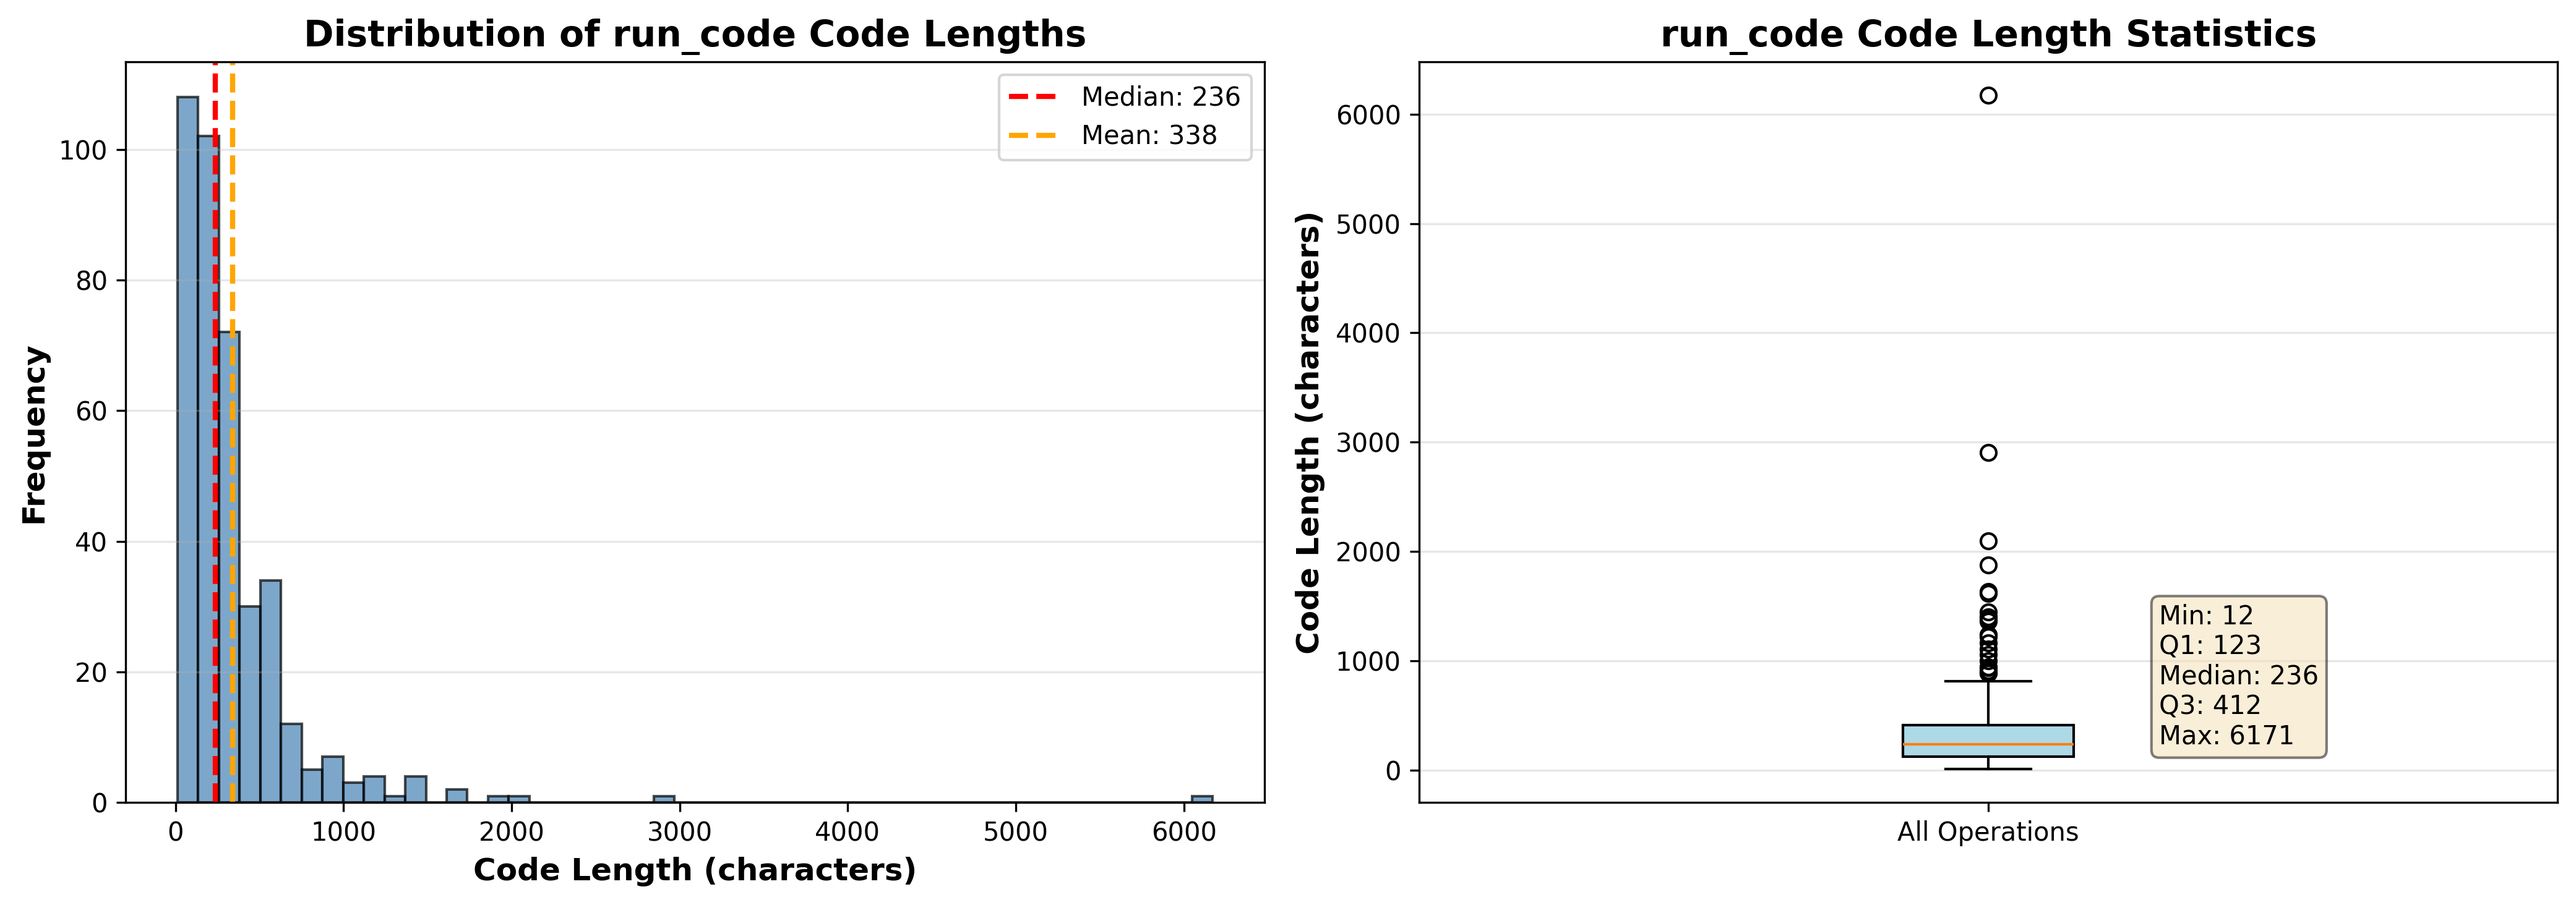
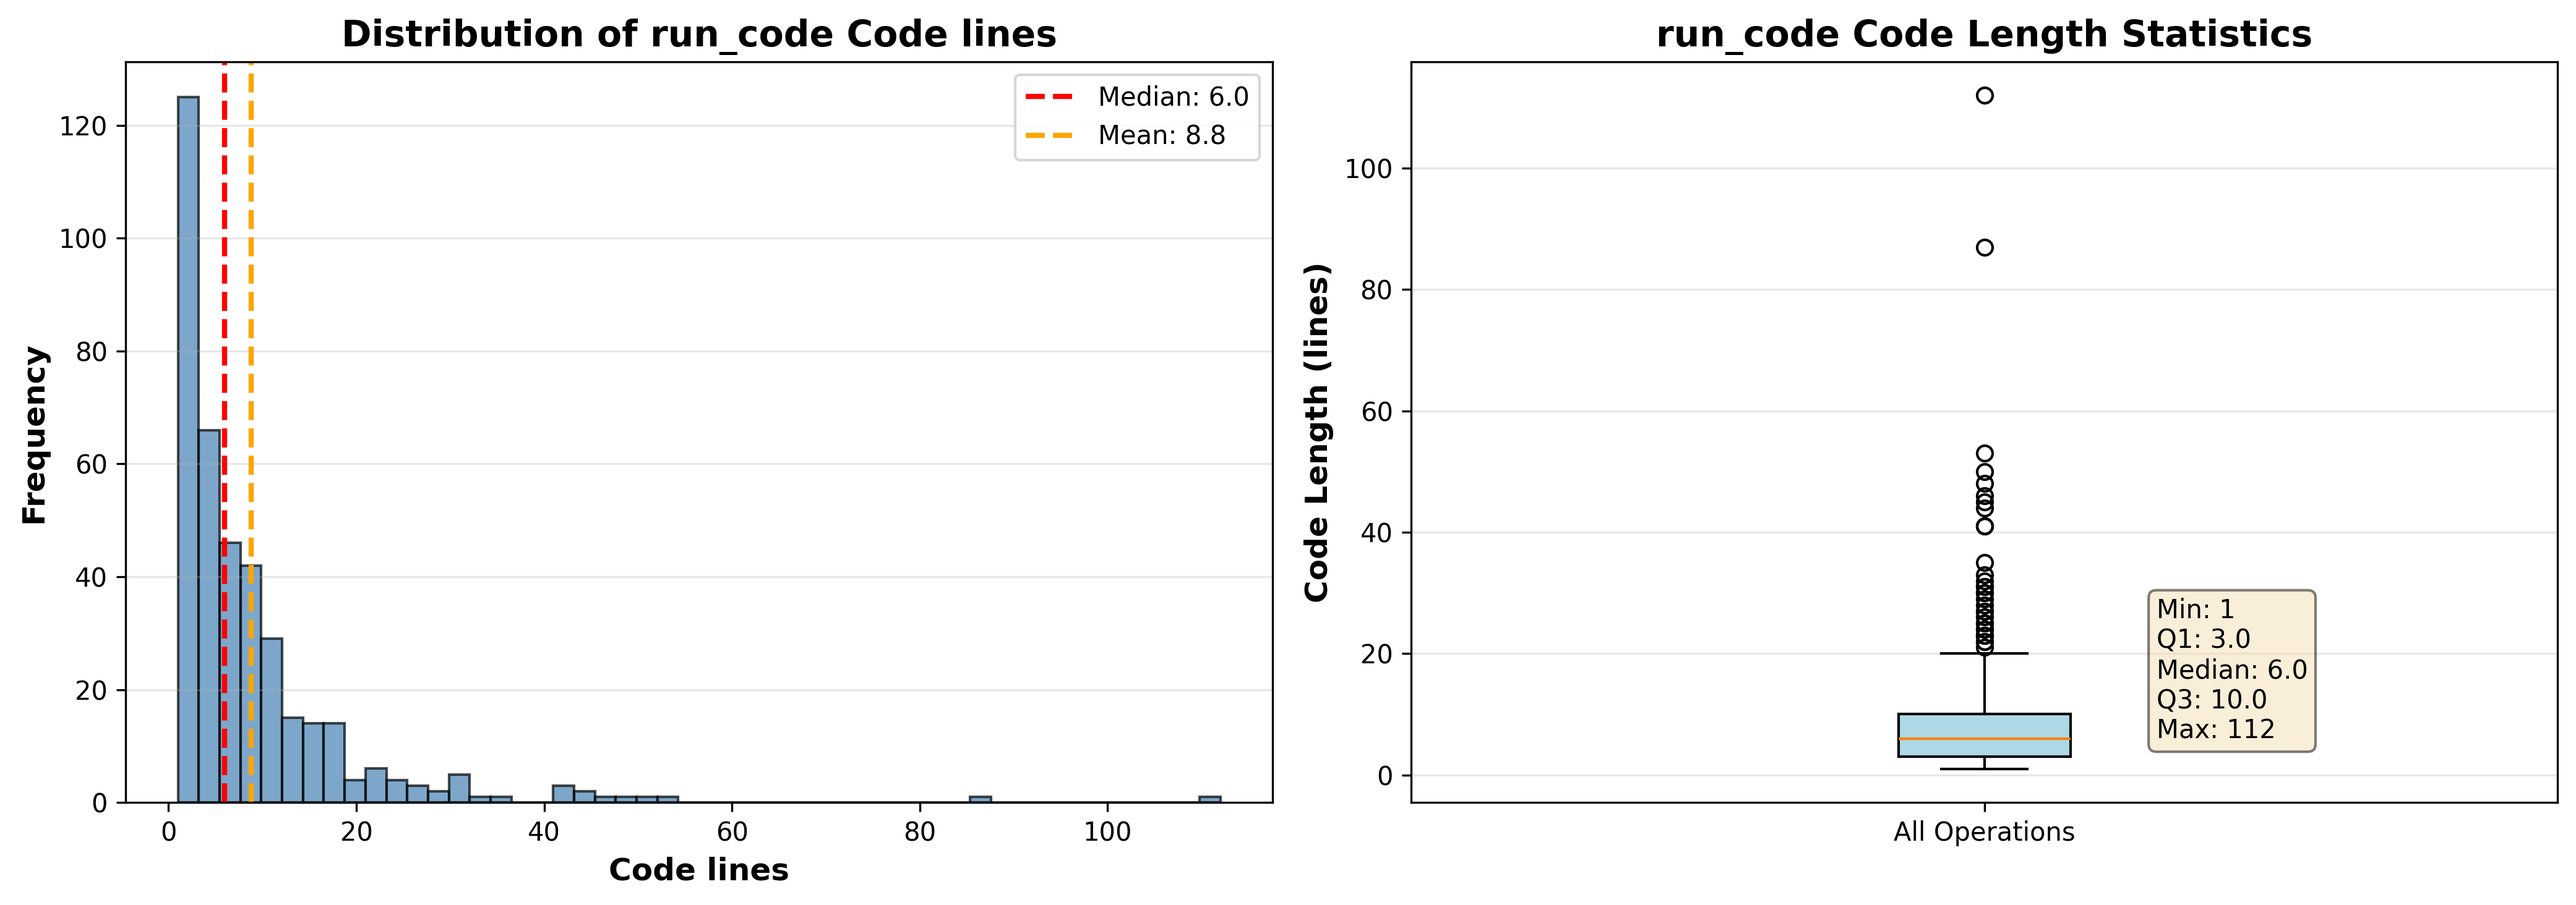
data analysis: change code length to LoC

diff --git a/data_analysis/run_code_visualize.py b/data_analysis/run_code_visualize.py
@@ -140,40 +140,40 @@ def plot_code_length_distribution(input_dir, output_dir):
     
     operations = data['operations']
     
-    # Get code lengths
-    code_lengths = [len(op['code']) for op in operations]
+    # Get code lengths (lines of code)
+    code_loc = [len(op['code'].splitlines()) for op in operations]
     
     # Create figure
     fig, (ax1, ax2) = plt.subplots(1, 2, figsize=(14, 5))
     
     # Plot 1: Histogram
-    ax1.hist(code_lengths, bins=50, color='steelblue', edgecolor='black', alpha=0.7)
-    ax1.axvline(np.median(code_lengths), color='red', linestyle='--', linewidth=2, label=f'Median: {np.median(code_lengths):.0f}')
-    ax1.axvline(np.mean(code_lengths), color='orange', linestyle='--', linewidth=2, label=f'Mean: {np.mean(code_lengths):.0f}')
+    ax1.hist(code_loc, bins=50, color='steelblue', edgecolor='black', alpha=0.7)
+    ax1.axvline(np.median(code_loc), color='red', linestyle='--', linewidth=2, label=f'Median: {np.median(code_loc):.1f}')
+    ax1.axvline(np.mean(code_loc), color='orange', linestyle='--', linewidth=2, label=f'Mean: {np.mean(code_loc):.1f}')
     
-    ax1.set_xlabel('Code Length (characters)', fontsize=12, fontweight='bold')
+    ax1.set_xlabel('Code lines', fontsize=12, fontweight='bold')
     ax1.set_ylabel('Frequency', fontsize=12, fontweight='bold')
-    ax1.set_title('Distribution of run_code Code Lengths', fontsize=14, fontweight='bold')
+    ax1.set_title('Distribution of run_code Code lines', fontsize=14, fontweight='bold')
     ax1.legend()
     ax1.grid(axis='y', alpha=0.3)
     
     # Plot 2: Box plot
-    box = ax2.boxplot([code_lengths], vert=True, patch_artist=True, 
+    box = ax2.boxplot([code_loc], vert=True, patch_artist=True, 
                        labels=['All Operations'])
     box['boxes'][0].set_facecolor('lightblue')
     box['boxes'][0].set_edgecolor('black')
     
     # Add statistics text
-    stats_text = f"Min: {min(code_lengths)}\n"
-    stats_text += f"Q1: {np.percentile(code_lengths, 25):.0f}\n"
-    stats_text += f"Median: {np.median(code_lengths):.0f}\n"
-    stats_text += f"Q3: {np.percentile(code_lengths, 75):.0f}\n"
-    stats_text += f"Max: {max(code_lengths)}"
+    stats_text = f"Min: {min(code_loc)}\n"
+    stats_text += f"Q1: {np.percentile(code_loc, 25):.1f}\n"
+    stats_text += f"Median: {np.median(code_loc):.1f}\n"
+    stats_text += f"Q3: {np.percentile(code_loc, 75):.1f}\n"
+    stats_text += f"Max: {max(code_loc)}"
     
-    ax2.text(1.15, np.median(code_lengths), stats_text, 
+    ax2.text(1.15, np.median(code_loc), stats_text, 
              fontsize=10, bbox=dict(boxstyle='round', facecolor='wheat', alpha=0.5))
     
-    ax2.set_ylabel('Code Length (characters)', fontsize=12, fontweight='bold')
+    ax2.set_ylabel('Code Length (lines)', fontsize=12, fontweight='bold')
     ax2.set_title('run_code Code Length Statistics', fontsize=14, fontweight='bold')
     ax2.grid(axis='y', alpha=0.3)
     

diff --git a/data_analysis/run_code_analyze.py b/data_analysis/run_code_analyze.py
@@ -343,13 +343,13 @@ def generate_report(analysis_results, output_file):
         f.write("COMMON PATTERNS\n")
         f.write("=" * 80 + "\n\n")
         
-        # Analyze code lengths
-        code_lengths = [len(op['code']) for op in operations]
-        if code_lengths:
-            avg_length = sum(code_lengths) / len(code_lengths)
-            f.write(f"Average code length: {avg_length:.0f} characters\n")
-            f.write(f"Shortest code: {min(code_lengths)} characters\n")
-            f.write(f"Longest code: {max(code_lengths)} characters\n\n")
+        # Analyze code loc
+        code_loc = [len(op['code'].splitlines()) for op in operations]
+        if code_loc:
+            avg_loc = sum(code_loc) / len(code_loc)
+            f.write(f"Average code loc: {avg_loc:.1f} lines\n")
+            f.write(f"Shortest code: {min(code_loc)} lines\n")
+            f.write(f"Longest code: {max(code_loc)} lines\n\n")
         else:
             f.write("No operations found to analyze.\n\n")
         
